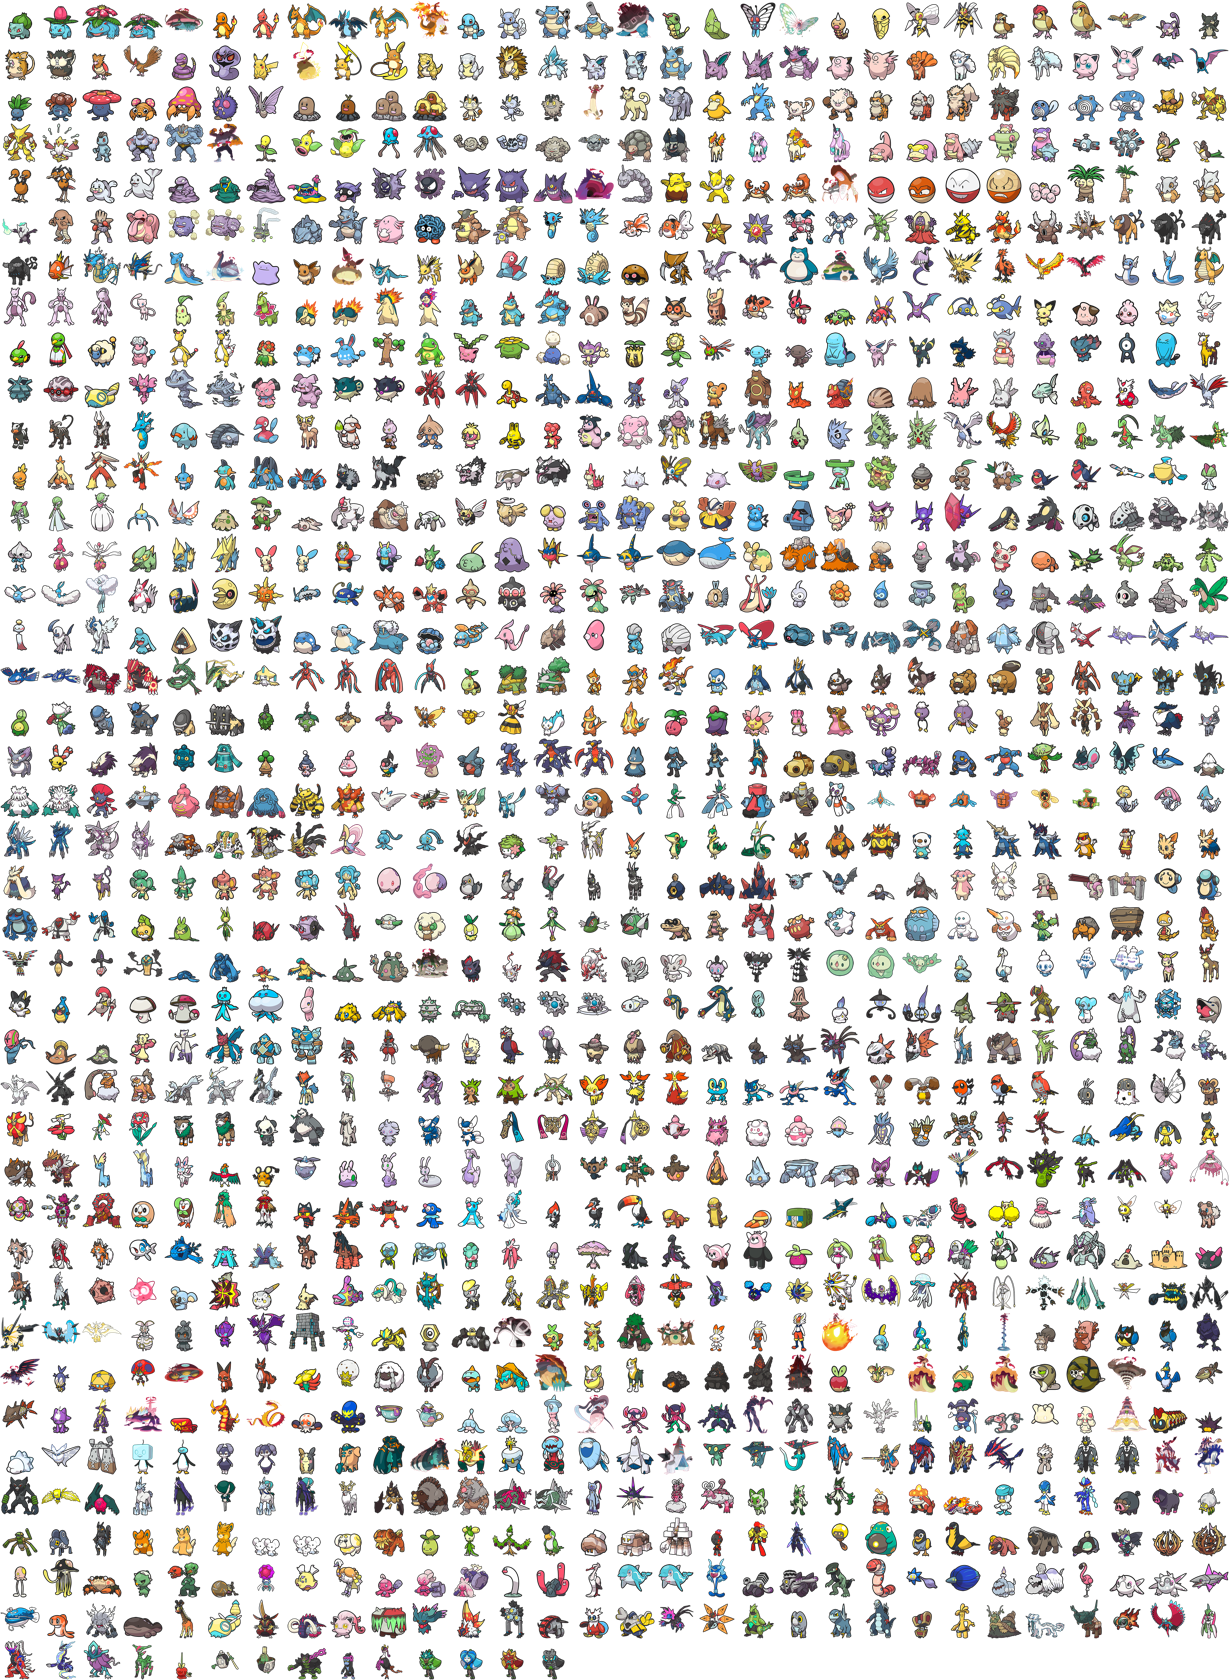
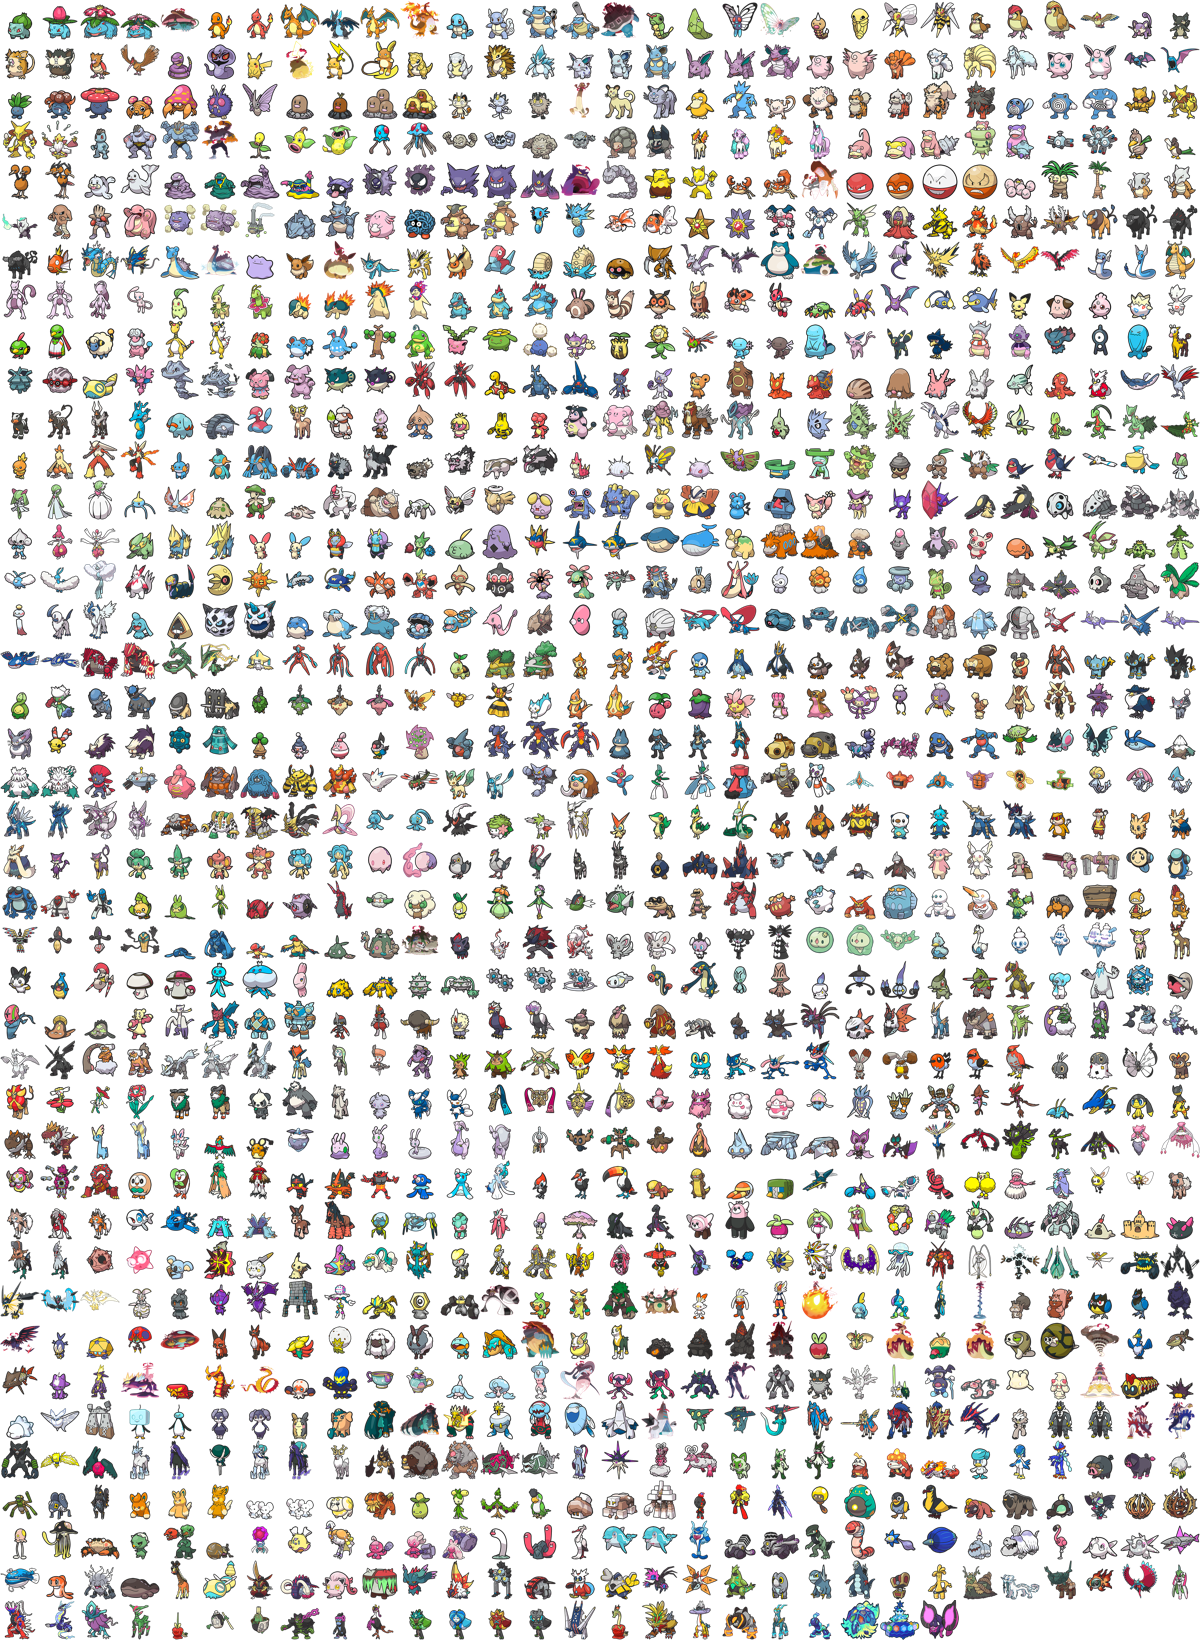
New DLC

Changed region(s): [[0.0, 0.0, 1.0, 1.0]]

diff --git a/throw.py b/throw.py
@@ -9,7 +9,7 @@ json_file = open('../national-pokedex-ts/src/data/pokedex.json', 'r')
 data = json.load(json_file)
 json_file.close()
 total_keys = len(data)
-num_cols = 32
+num_cols = 30
 pic_height = 40
 pic_width = 40
 num_rows = total_keys // num_cols
@@ -30,7 +30,7 @@ for index, species_id in enumerate(data):
     print(species_id)
     continue
 canvas.show()
-canvas.save('combined_2.png')
+canvas.save('combined.png')
 
 # import os
 # import json

diff --git a/README.md b/README.md
@@ -1,3 +1,5 @@
 # phms
 Home Sprites 128x128
 Mini Home Sprites resized to 40x40
+From: https://archives.bulbagarden.net/wiki/Category:HOME_menu_sprites
+https://archives.bulbagarden.net/w/index.php?title=Category:HOME_menu_sprites&filefrom=Menu+HOME+0903.png#mw-category-media
